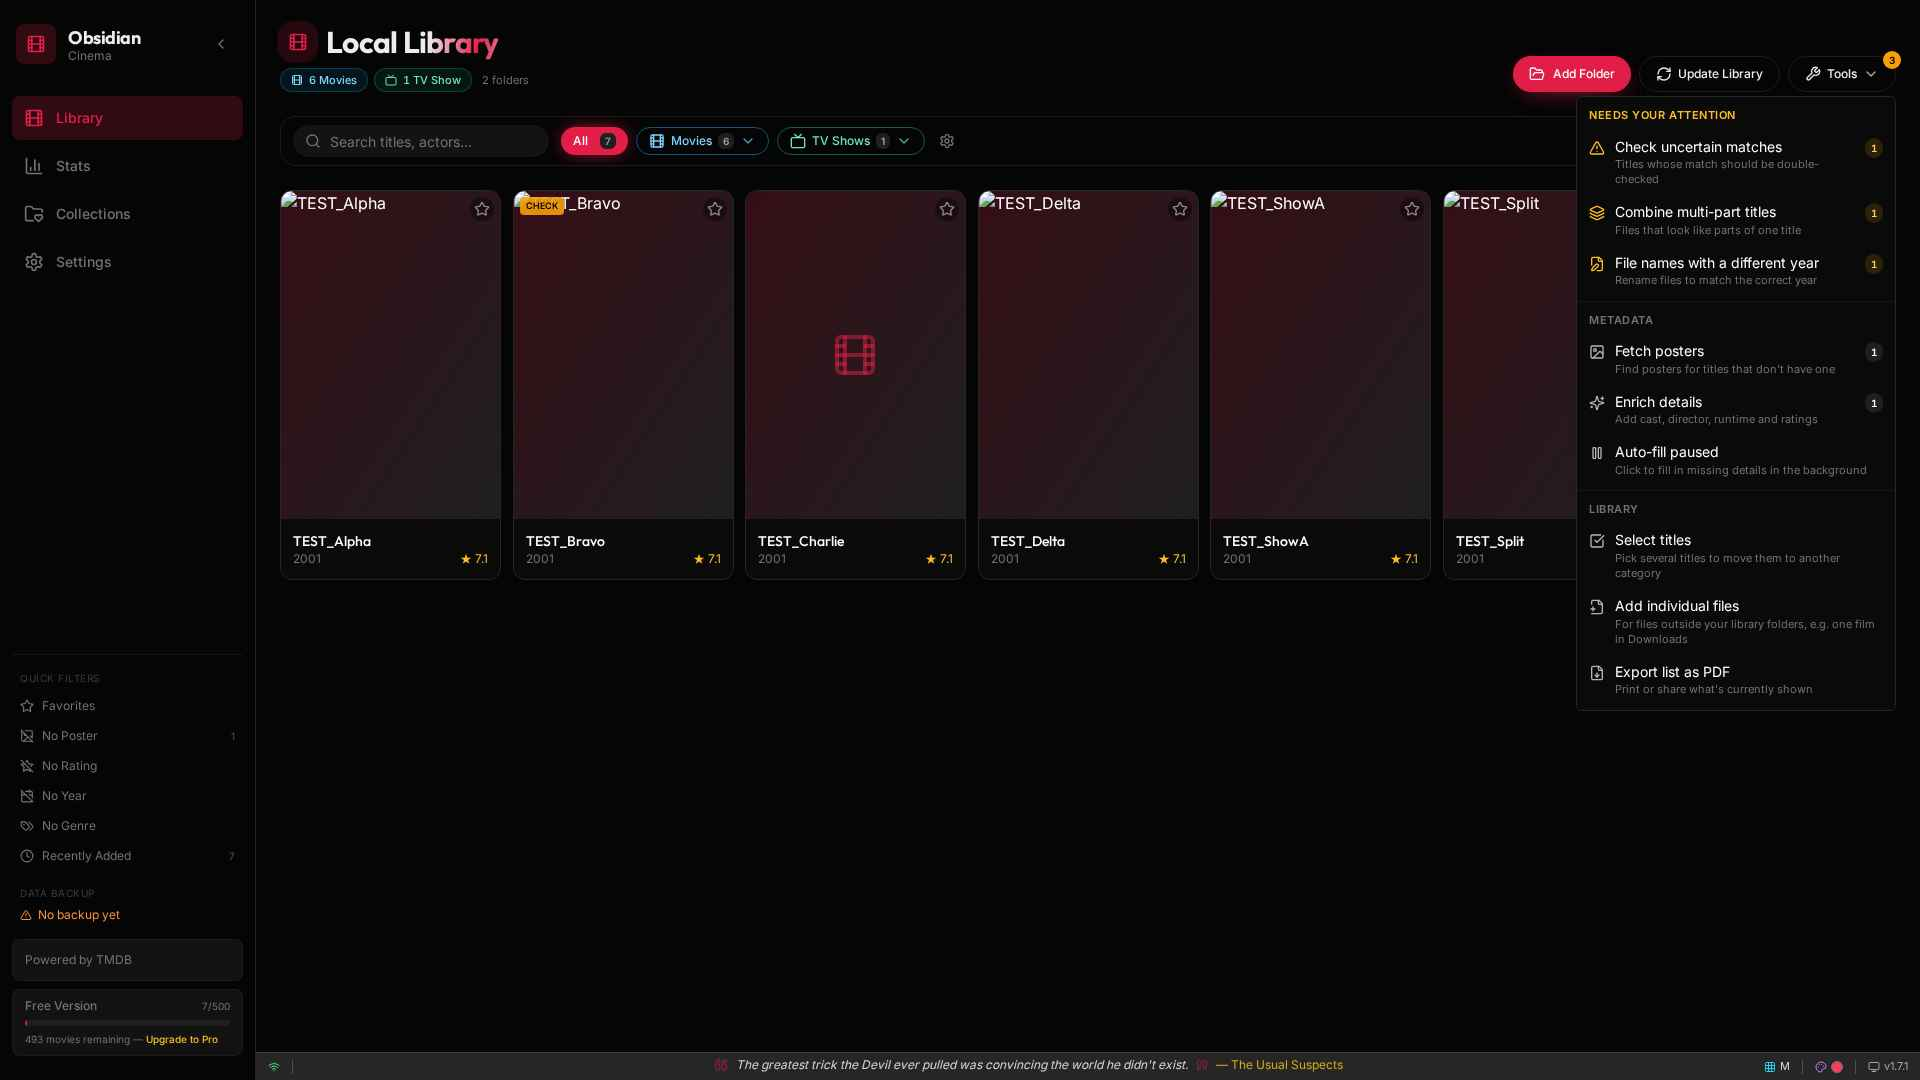
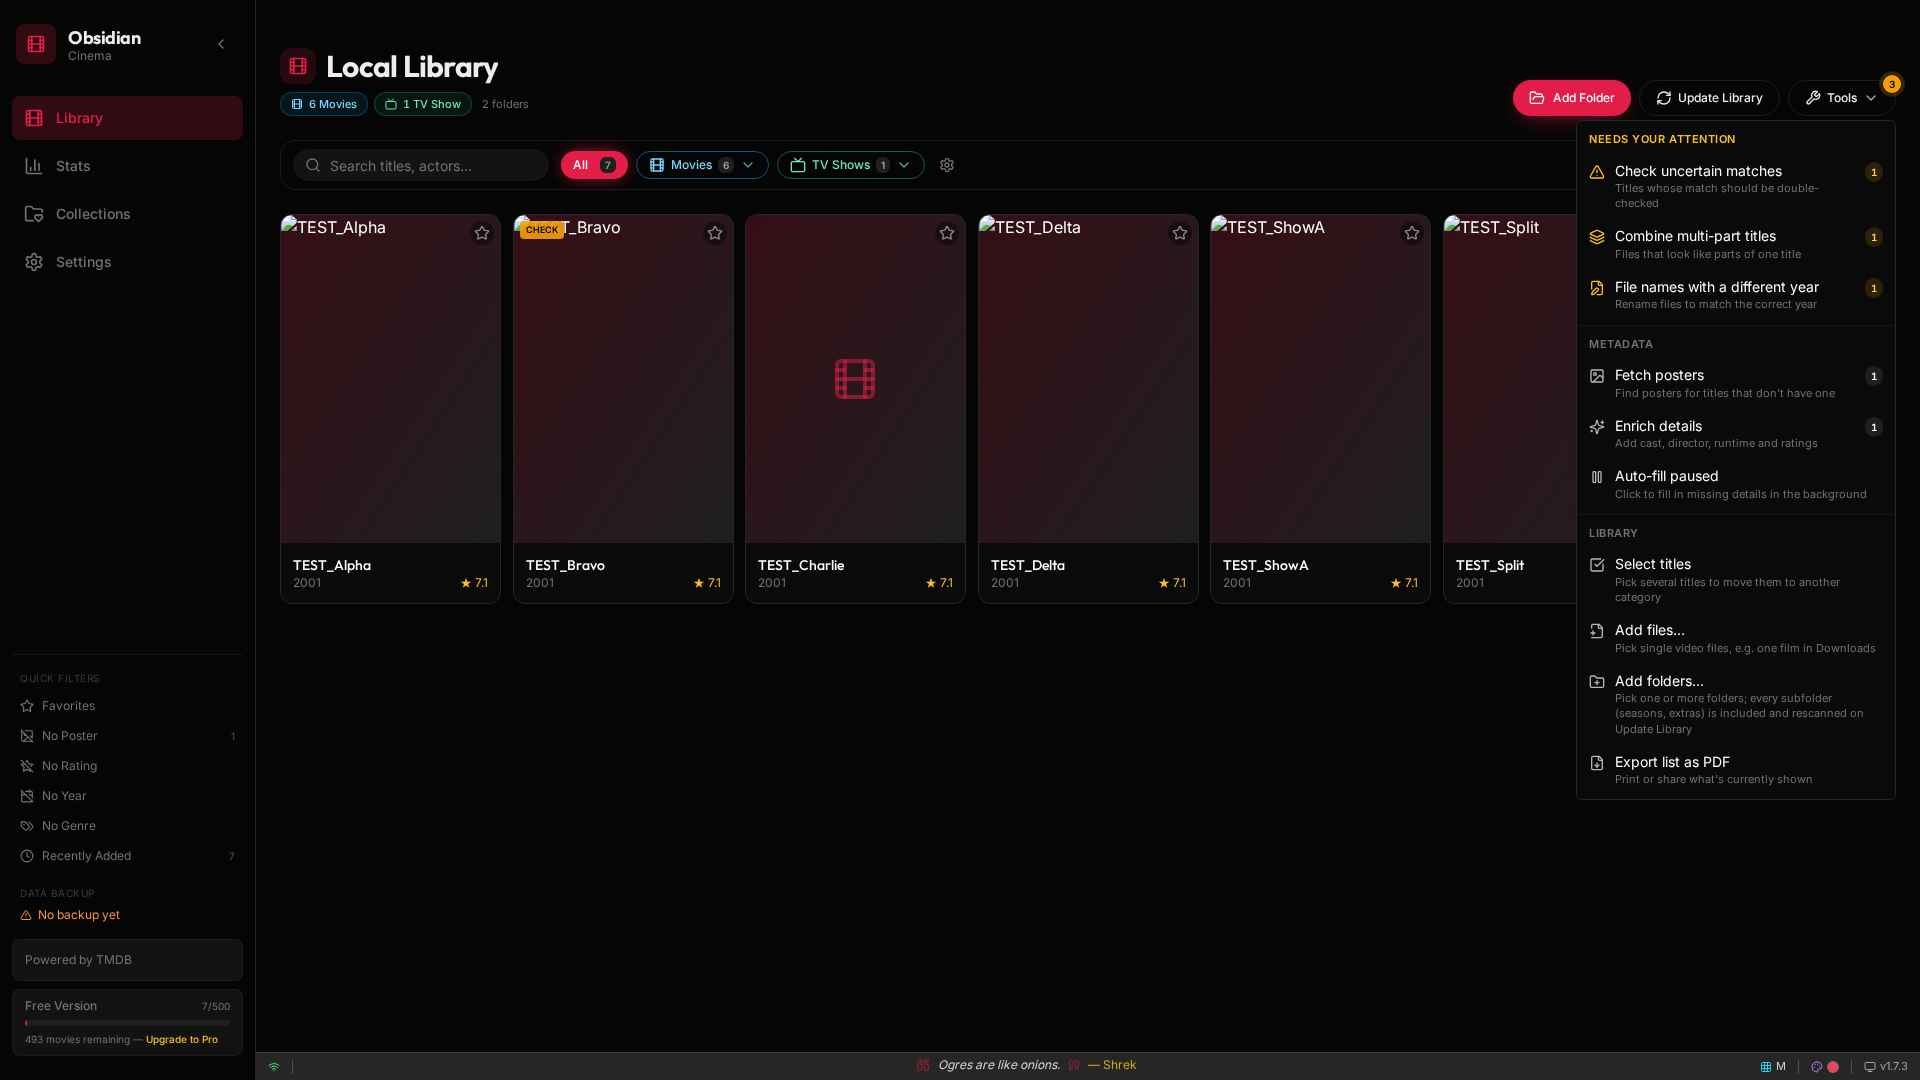
## Add folders and the 1.7.3 release are ready You can now add whole folders, with all their season subfolders, from the Tools menu. Version 1.7.3 is ready to release with the Add Folder fixes. I tested both in the preview using a pretend Windows setup, not a real PC, and the earlier library checks 
**Correction to the customer reply I wrote earlier:** I said dropping a TV Shows folder onto the library would scan every season subfolder. In 1.7.2 that isn't true: it only picks up videos sitting directly inside the dropped folder. Please remove that tip from the email, or tell him it arrives with the 1.7.3 update. The tip to launch the app normally rather than as administrator is still right.

- **New "Add folders…" in Tools:** next to "Add files…". You pick the type first, then choose one or more folders in the Windows picker. Every subfolder is included, and the folders are saved so **Update Library** rescans them for new episodes.
- **Dragging folders onto the library:** now includes all subfolders and saves the folder for future rescans. Dropping a mix of folders and loose files works too.
- **Version 1.7.3:**
  - The What's New pop-up lists the Add Folder fixes: all drives shown, typed and network paths open, clearer error messages, the folder type as Step 1, "Choose with Windows…", plus the two folder improvements above.
  - The landing page badge now shows v1.7.3.
  - The Pro gift email and marketing materials are updated to 1.7.3.

**To release:**
1. **Publish** first, so the What's New list and gift email go live.
2. **Save to GitHub**, then run the Windows installer build and create the v1.7.3 release on GitHub. Installed apps then update automatically.

## Next Action Items
[…]

diff --git a/frontend/src/pages/LocalLibraryPage.jsx b/frontend/src/pages/LocalLibraryPage.jsx
@@ -1170,12 +1170,13 @@ export default function LocalLibraryPage() {
     fetchAbortRef.current = true;
   };
 
-  const handleMoviesFound = (newMovies, dirPath, importType) => {
-    // Add directory if not already added
-    if (!directories.includes(dirPath)) {
-      setDirectories([...directories, dirPath]);
-    }
-    if (importType) applyImportType([dirPath], importType);
+  const handleMoviesFound = (newMovies, dirPath, importType) => addFolders([dirPath], newMovies, importType);
+
+  // Adds scanned folders as library folders (so Update Library rescans them) plus the videos found
+  const addFolders = (dirPaths, newMovies, importType) => {
+    const fresh = dirPaths.filter(d => !directories.some(r => d === r || inDir(d, r)));
+    if (fresh.length) setDirectories(prev => [...prev, ...fresh.filter(d => !prev.includes(d))]);
+    if (importType) applyImportType(fresh.length ? fresh : dirPaths, importType);
 
     // Merge movies, avoiding duplicates by file path
     const existingPaths = allLibraryPaths(movies);
@@ -1204,9 +1205,10 @@ export default function LocalLibraryPage() {
       }
     }
     
-    setMovies([...movies, ...uniqueNewMovies]);
+    if (uniqueNewMovies.length === 0) { toast.info('No new video files found — they may already be in your library'); return; }
+    setMovies(prev => { const known = allLibraryPaths(prev); return [...prev, ...uniqueNewMovies.filter(m => !known.has(m.file_path))]; });
     queueAutoMatch(uniqueNewMovies);
-    toast.success(`Added ${uniqueNewMovies.length} new movies to library`);
+    toast.success(`Added ${uniqueNewMovies.length} new ${uniqueNewMovies.length === 1 ? 'file' : 'files'} to library`);
   };
 
   const handleAddFiles = () => {
@@ -1227,10 +1229,29 @@ export default function LocalLibraryPage() {
   };
 
   const [showFilesType, setShowFilesType] = useState(false);
-  const addIndividualFiles = () => { dropPathsRef.current = null; setDropCount(0); setShowFilesType(true); };
+  const [pickMode, setPickMode] = useState('files');
+  const addIndividualFiles = () => { dropPathsRef.current = null; dropDirsRef.current = null; setDropCount(0); setPickMode('files'); setShowFilesType(true); };
+  const addFolderPicks = () => { dropPathsRef.current = null; dropDirsRef.current = null; setDropCount(0); setPickMode('folders'); setShowFilesType(true); };
+  const scanFolders = async (dirs, importType) => {
+    const tid = toast.loading(`Scanning ${dirs.length === 1 ? dirs[0] : dirs.length + ' folders'} and all subfolders…`);
+    const found = [];
+    for (const d of dirs) {
+      const vids = await window.electronAPI.scanForVideos(d, true).catch(() => []);
+      found.push(...(vids || []));
+    }
+    toast.dismiss(tid);
+    addFolders(dirs, found, importType);
+  };
+  const pickFolders = async (importType) => {
+    if (!isElectron() || !window.electronAPI?.openFolderDialog) return;
+    const res = await window.electronAPI.openFolderDialog({ properties: ['openDirectory', 'multiSelections'], title: 'Select folders to add (subfolders included)' }).catch(() => null);
+    if (!res || res.canceled || !res.filePaths?.length) return;
+    scanFolders(res.filePaths, importType);
+  };
 
   // Drag & drop: video files (or the videos directly inside a dropped folder) are added after picking a type
   const dropPathsRef = useRef(null);
+  const dropDirsRef = useRef(null);
   const [dropCount, setDropCount] = useState(0);
   const [dragOver, setDragOver] = useState(false);
   const VIDEO_EXT = /\.(mp4|mkv|avi|mov|wmv|flv|webm|m4v|mpg|mpeg|3gp|ts)$/i;
@@ -1248,26 +1269,36 @@ export default function LocalLibraryPage() {
     setDragOver(false);
     const dropped = Array.from(e.dataTransfer.files || []).map(f => f.path).filter(Boolean);
     const paths = [];
+    const dirs = [];
+    const dirFound = [];
+    let dirVideos = 0;
+    const known = allLibraryPaths(movies);
     for (const p of dropped) {
       if (VIDEO_EXT.test(p)) paths.push(p);
       else if (window.electronAPI?.scanForVideos) {
-        const inside = await window.electronAPI.scanForVideos(p, false).catch(() => []);
-        (inside || []).forEach(v => paths.push(v.file_path));
+        // Dropped folders are scanned with every subfolder (seasons, extras…)
+        const inside = await window.electronAPI.scanForVideos(p, true).catch(() => []);
+        if (inside && inside.length) { dirs.push(p); dirFound.push(...inside); dirVideos += inside.filter(v => !known.has(v.file_path)).length; }
       }
     }
-    if (paths.length === 0) { toast.info('No video files found in what you dropped'); return; }
-    const known = allLibraryPaths(movies);
     const fresh = [...new Set(paths)].filter(p => !known.has(p));
-    if (fresh.length === 0) { toast.info('Those files are already in your library'); return; }
-    dropPathsRef.current = fresh;
-    setDropCount(dropPathsRef.current.length);
+    if (fresh.length === 0 && dirs.length === 0) { toast.info(paths.length ? 'Those files are already in your library' : 'No video files found in what you dropped'); return; }
+    if (fresh.length === 0 && dirVideos === 0) { toast.info('Those files are already in your library'); return; }
+    dropPathsRef.current = fresh.length ? fresh : null;
+    dropDirsRef.current = dirs.length ? { dirs, found: dirFound } : null;
+    setPickMode('files');
+    setDropCount(fresh.length + dirVideos);
     setShowFilesType(true);
   };
   const onFilesTypePicked = (type) => {
     const dropped = dropPathsRef.current;
+    const droppedDirs = dropDirsRef.current;
     dropPathsRef.current = null;
+    dropDirsRef.current = null;
     setDropCount(0);
-    pickIndividualFiles(type, dropped || undefined);
+    if (droppedDirs) addFolders(droppedDirs.dirs, droppedDirs.found, type);
+    if (dropped) pickIndividualFiles(type, dropped);
+    if (!dropped && !droppedDirs) { if (pickMode === 'folders') pickFolders(type); else pickIndividualFiles(type); }
   };
 
   const pickIndividualFiles = async (importType, droppedPaths) => {
@@ -1977,7 +2008,7 @@ export default function LocalLibraryPage() {
         </div>
       )}
       {/* Dialogs driven by the toolbar */}
-      <ImportTypeDialog open={showFilesType} onOpenChange={setShowFilesType} onPick={onFilesTypePicked} dropCount={dropCount} />
+      <ImportTypeDialog open={showFilesType} onOpenChange={setShowFilesType} onPick={onFilesTypePicked} dropCount={dropCount} mode={pickMode} />
       <FilmographyDialog person={person} movies={movies} onClose={() => setPerson(null)} onLeave={() => setSelectedMovie(null)} />
       <PartsPlayDialog movie={partsMovie} onClose={() => setPartsMovie(null)} onPlayPart={playPart} />
       <MergePickerDialog movie={mergeTarget} movies={movies} onClose={() => setMergeTarget(null)} onMerge={mergeManual} />
@@ -2044,6 +2075,7 @@ export default function LocalLibraryPage() {
               onToggleAutoFill={toggleAutoEnrich}
               onSelect={() => setSelectMode(true)}
               onAddFiles={handleAddFiles}
+              onAddFolders={addFolderPicks}
               onPdf={() => setShowPdf(true)}
             />
           </>

diff --git a/frontend/src/components/ImportTypePicker.jsx b/frontend/src/components/ImportTypePicker.jsx
@@ -31,20 +31,20 @@ export const ImportTypePicker = ({ value, onChange, testPrefix = "import-type" }
 );
 
 // Asks the type before picking individual files (or for files dropped on the library)
-export const ImportTypeDialog = ({ open, onOpenChange, onPick, dropCount }) => {
+export const ImportTypeDialog = ({ open, onOpenChange, onPick, dropCount, mode }) => {
   const [type, setType] = useState(null);
   const close = (o) => { if (!o) setType(null); onOpenChange(o); };
   return (
     <Dialog open={open} onOpenChange={close}>
       <DialogContent className="max-w-md" data-testid="files-type-dialog">
         <DialogHeader>
-          <DialogTitle>Add files as…</DialogTitle>
-          <DialogDescription>{dropCount ? `Choose the type for the ${dropCount} dropped ${dropCount === 1 ? 'item' : 'items'}.` : "Choose the type for the files you're about to pick."}</DialogDescription>
+          <DialogTitle>{mode === 'folders' && !dropCount ? 'Add folders as…' : 'Add files as…'}</DialogTitle>
+          <DialogDescription>{dropCount ? `Choose the type for the ${dropCount} dropped ${dropCount === 1 ? 'file' : 'files'}.` : mode === 'folders' ? "Choose the type for the folders you're about to pick. Every subfolder is included." : "Choose the type for the files you're about to pick."}</DialogDescription>
         </DialogHeader>
         <ImportTypePicker value={type} onChange={setType} testPrefix="files-type" />
         <DialogFooter>
           <Button variant="outline" onClick={() => close(false)} data-testid="files-type-cancel">Cancel</Button>
-          <Button disabled={!type} onClick={() => { const t = type; close(false); onPick(t); }} data-testid="files-type-continue">{dropCount ? 'Add to library' : 'Choose files'}</Button>
+          <Button disabled={!type} onClick={() => { const t = type; close(false); onPick(t); }} data-testid="files-type-continue">{dropCount ? 'Add to library' : mode === 'folders' ? 'Choose folders' : 'Choose files'}</Button>
         </DialogFooter>
       </DialogContent>
     </Dialog>

diff --git a/frontend/src/pages/AdminPage.jsx b/frontend/src/pages/AdminPage.jsx
@@ -625,7 +625,7 @@ Recipient: ${gift.email}
 
 Hey there,
 
-Great news — release 1.7.2 gives your library a cleaner look: a tidy toolbar with a single Tools menu, a search and filter bar that stays in view, and new visual effects — posters that tilt and glow on hover, a background that takes on the colours of the poster you're looking at, and a details window tinted to match. It builds on 1.7.0 and 1.7.1: whole TV shows in one card, folder types for Movies, TV Shows, Documentaries and Animations, Director Insights, automatic matching and much more. But...
+Great news — release 1.7.3 makes adding your collection easier than ever: every drive (USB, external and network) shows in Add Folder, and you can add several folders at once with all their season subfolders. It follows 1.7.2, which gave your library a cleaner look: a tidy toolbar with a single Tools menu, a search and filter bar that stays in view, and new visual effects — posters that tilt and glow on hover, a background that takes on the colours of the poster you're looking at, and a details window tinted to match. It builds on 1.7.0 and 1.7.1: whole TV shows in one card, folder types for Movies, TV Shows, Documentaries and Animations, Director Insights, automatic matching and much more. But...
 
 You've just been gifted a complimentary Obsidian Cinema PRO license! Consider this your all-access pass to the full cinematic experience.
 
@@ -634,7 +634,7 @@ ${gift.key}
 
 Here's how to activate it:
 
-If you haven't grabbed the latest Obsidian Cinema yet, download v1.7.2 here:
+If you haven't grabbed the latest Obsidian Cinema yet, download v1.7.3 here:
 https://www.obsidiancinema.com
 
 1. Download and Install the newest version of Obsidian Cinema

diff --git a/frontend/src/components/LibraryTools.jsx b/frontend/src/components/LibraryTools.jsx
@@ -1,6 +1,6 @@
 import {
   Wrench, ChevronDown, CheckSquare, FilePlus2, FileDown, Image, Sparkles, Wand2, Pause,
-  AlertTriangle, Layers, FileEdit, Loader2,
+  AlertTriangle, Layers, FileEdit, Loader2, FolderPlus,
 } from "lucide-react";
 import { Button } from "@/components/ui/button";
 import {
@@ -65,7 +65,8 @@ export const LibraryTools = (p) => {
         <DropdownMenuSeparator />
         <DropdownMenuLabel className="text-[11px] uppercase tracking-wider text-muted-foreground">Library</DropdownMenuLabel>
         {p.hasTitles && <Item icon={CheckSquare} label="Select titles" hint="Pick several titles to move them to another category" onSelect={p.onSelect} testid="select-mode-btn" />}
-        <Item icon={FilePlus2} label="Add individual files" hint="For files outside your library folders, e.g. one film in Downloads" onSelect={p.onAddFiles} testid="add-files-btn" />
+        <Item icon={FilePlus2} label="Add files…" hint="Pick single video files, e.g. one film in Downloads" onSelect={p.onAddFiles} testid="add-files-btn" />
+        <Item icon={FolderPlus} label="Add folders…" hint="Pick one or more folders; every subfolder (seasons, extras) is included and rescanned on Update Library" onSelect={p.onAddFolders} testid="add-folders-btn" />
         {p.hasTitles && <Item icon={FileDown} label="Export list as PDF" hint="Print or share what's currently shown" onSelect={p.onPdf} testid="pdf-export-trigger" />}
       </DropdownMenuContent>
     </DropdownMenu>

diff --git a/backend/server.py b/backend/server.py
@@ -2898,6 +2898,19 @@ async def admin_get_stats(request: Request, session_token: Optional[str] = Cooki
 
 CHANGELOG = [
     {
+        "version": "1.7.3",
+        "date": "2026-06",
+        "highlights": [
+            "Add Folder now lists every drive: USB, external and mapped network drives (newer Windows 11 only showed C: and D:)",
+            "Typed paths open when you press Enter or Go, including network paths like \\\\NAS\\Media",
+            "Clear messages when a folder can't be found or opened, instead of \"empty\"",
+            "Folder type is now Step 1 at the top, so Scan is never mysteriously greyed out",
+            "New \"Choose with Windows\u2026\" button opens the standard Windows folder picker",
+            "New \"Add folders\u2026\" in the Tools menu: pick several folders at once, every season subfolder included",
+            "Folders you drag onto the library now include all their subfolders and are rescanned on Update Library",
+        ],
+    },
+    {
         "version": "1.7.2",
         "date": "2026-06",
         "highlights": [

diff --git a/marketing_materials.md b/marketing_materials.md
@@ -1,4 +1,4 @@
-# Obsidian Cinema — Marketing Materials (Updated v1.7.2)
+# Obsidian Cinema — Marketing Materials (Updated v1.7.3)
 
 ---
 
@@ -37,6 +37,7 @@ Obsidian Cinema sits between a file manager and a full media server. Point it at
 - **Drag & drop (new in 1.7.1)** — drop video files or folders onto the library to add them.
 - **Cleaner library toolbar (new in 1.7.2)** — just Add Folder, Update Library and a Tools menu up top (with a badge when something needs your attention), plus a sticky search and filter bar that stays in view while you scroll.
 - **New visual effects (new in 1.7.2)** — posters tilt, glow and catch the light on hover, cards fade in as they load, the background softly takes on the colours of the poster you hover, and the details window and Play button are tinted to match. Choose Auto, Full or Lite in Settings; Auto keeps big libraries smooth.
+- **Easier importing (new in 1.7.3)** — Add Folder lists every drive (USB, external, mapped network), opens typed and network paths, and has a "Choose with Windows…" button; "Add folders…" adds several folders at once with all season subfolders, and dragged folders are scanned in full and rescanned on Update Library.
 - **AI-powered recommendations** — personalized movie suggestions based on your viewing and browsing activity, powered by GPT-4o.
 - **One-click playback** in your default media player (VLC, MPC, Windows Media Player — your choice).
 - **Favorites** — star movies with an animated confetti burst. Persists across sessions and survives updates.
@@ -87,7 +88,7 @@ Obsidian Cinema scans your local and network drives, automatically fetches movie
 
 ### Key Facts
 - **Platform:** Windows (Electron-based desktop app)
-- **Version:** 1.7.2
+- **Version:** 1.7.3
 - **Price:** Free (500 of your own files, 3 collections) / Pro $25 one-time (no library limit)
 - **Data Source:** TMDB for posters, metadata, and cast data
 - **AI Engine:** GPT-4o for personalized movie recommendations

diff --git a/memory/PRD.md b/memory/PRD.md
@@ -155,3 +155,7 @@ Build "Obsidian Cinema"—an installable Windows desktop app (Electron) that sca
 ## 2026-06 — Add Folder fixes (customer report)
 - electron.js getWindowsDrives: probes A–Z (wmic removed on new Windows 11 caused C:/D: fallback); listDirectory throws readable errors.
 - LocalDirectoryBrowser: Step 1 type picker on top (highlighted until chosen, button reads 'Choose a type first'), typed path opens on Enter/Go (was never navigated), UNC paths + Up, 'Choose with Windows…' native picker, error vs empty states. Tested via simulated electronAPI.
+
+## 2026-06 — v1.7.3 hotfix: Add folders + drop folders
+- Tools > 'Add folders…' (multi-select native folder picker, recursive scan, saved as library folders with chosen type). Dropped folders now scanned recursively once and saved as library folders. addFolders() replaces handleMoviesFound internals (functional state updates).
+- package.json 1.7.3, CHANGELOG 1.7.3 (Add Folder fixes + folders), gift email + marketing updated. Regression suite iter51 54/54 pass.
